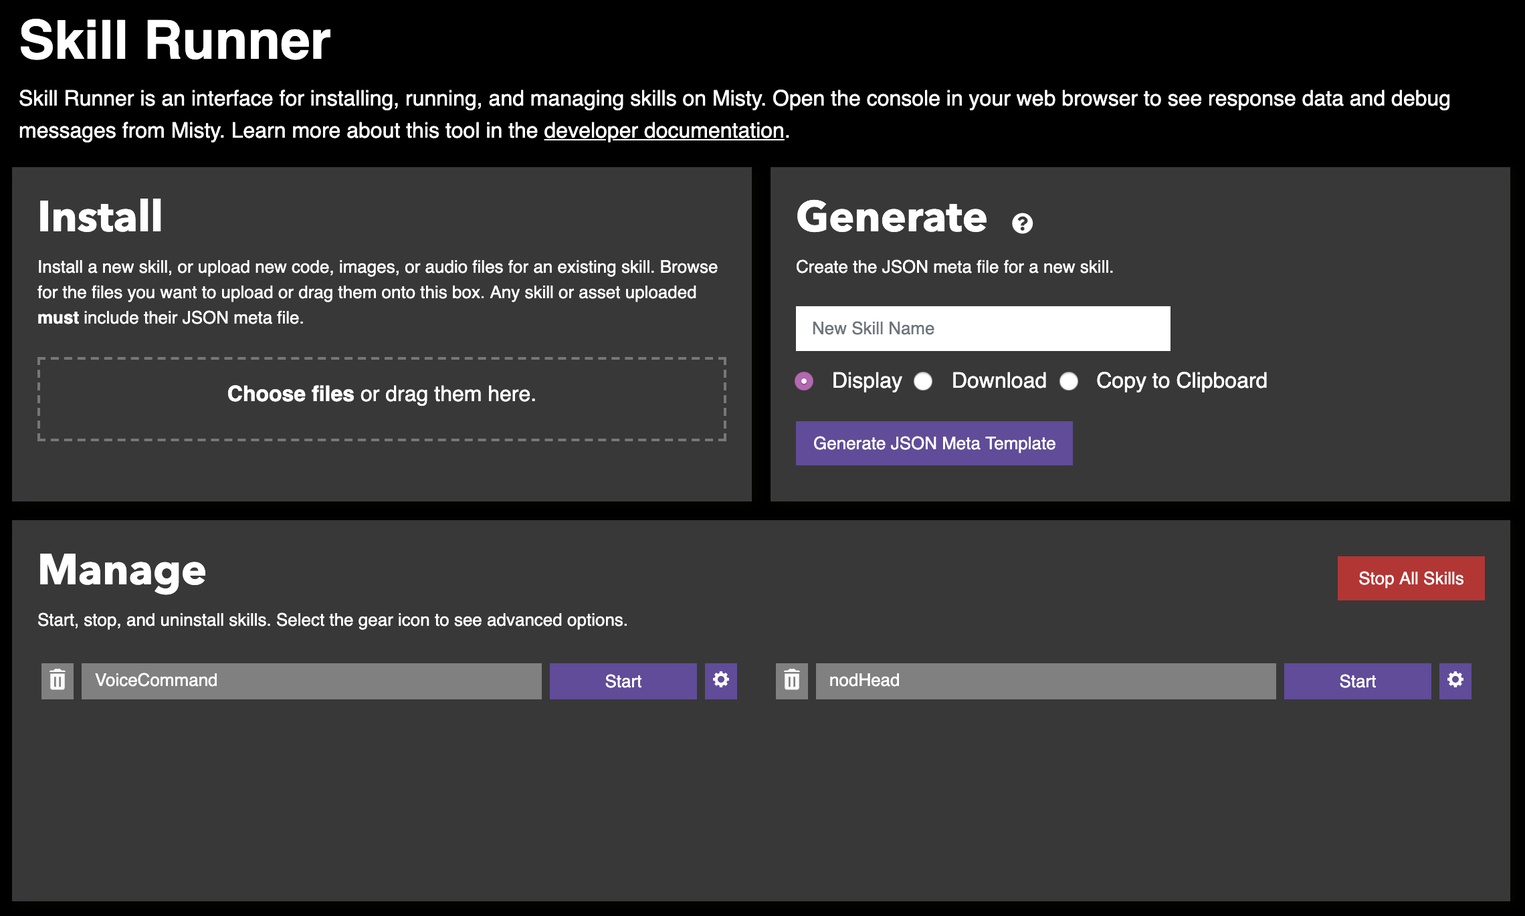
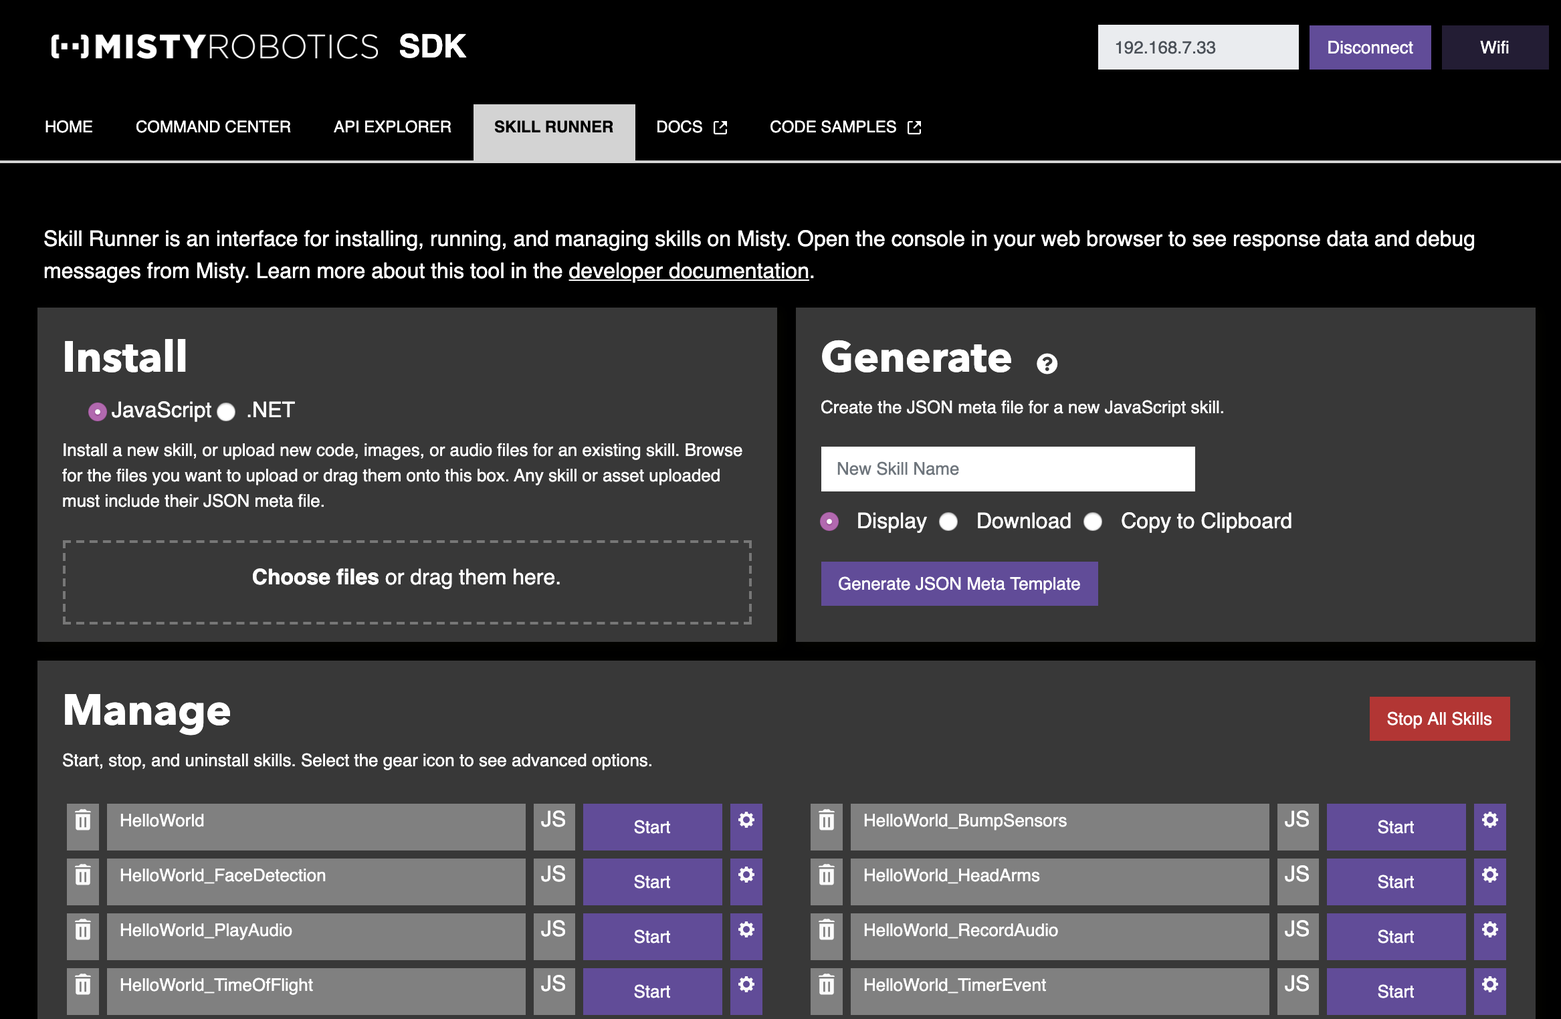
Various updates for compatibility with .NET SDK

diff --git a/src/content/misty-ii/robot/introduction-to-skills.md b/src/content/misty-ii/robot/introduction-to-skills.md
@@ -13,29 +13,32 @@ This article provides an overview of developing skills for Misty. It describes h
 
 ## What is a Skill?
 
-A skill is an application you develop for the Misty platform. While you can build many different types of skills, most involve some combination of the following:
+At a high level, there are two ways to code your Misty II:
+
+* You can build a **skill** using Misty's [JavaScript](../../../misty-ii/javascript-sdk/javascript-skill-architecture) or [.NET](../../../misty-ii/net-sdk/overview) SDK. A skill runs directly on the robot, alongside Misty's own software.
+* You can build a robot **application** using Misty's [REST API](../../rest-api/overview). The distinction between an application and a skill is that the code for an application runs on an external device (like your desktop browser or on a Raspberry Pi) and not onboard the robot.
+
+While you can build many different types of skills and robot applications, most involve some combination of the following:
 
 1. gathering some of Misty's sensory data
 2. processing that data using Misty's API, or sending it off to a cloud service
 3. having Misty do something in response
 
-For example, you might write skills to have Misty do the following:
+For example, you might code Misty to do the following:
 
 * roam an office to greet people she recognizes
 * respond with sound and movement when you touch her on the head or chin
 * patrol an area to capture photos, videos, and audio recordings while reporting changes in the environment
 
-The first step in coding Misty is deciding what you want the robot to do. Then, you can choose to write your code using Misty's JavaScript SDK, her REST API, or both. When you're ready, you can share your code with other developers in the Misty Community.
+The first step in coding Misty is deciding what you want the robot to do. Then, you can choose to whether to use Misty's JavaScript SDK, her .NET SDK (Beta), or her REST API. When you're ready, you can share your code with other developers in the Misty Community.
 
-## Using Misty's APIs
+## SDKs and APIs
 
-At a high level, there are two different ways to write code for Misty. When you write a skill using Misty's [JavaScript SDK](../../../misty-ii/javascript-sdk/javascript-skill-architecture), you upload your code to the robot and it runs internally on Misty. This differs from using Misty's [REST API](../../rest-api/overview), where your code runs on an external device (say, in desktop browser or on a Raspberry Pi) and not onboard the robot.
+Misty's JavaScript, .NET, and REST APIs include many of the same commands, but they differ in architecture and implementation. The following sections provide a high-level overview of Misty's SDKs and APIs.
 
-Misty's JavaScript and REST APIs include many of the same commands, but they differ in architecture and implementation.
+### JavaScript SDK
 
-### Misty's JavaScript SDK
-
-When you use Misty's JavaScript SDK, your code runs locally on your robot. Each skill you write this way runs from a single JavaScript code file. You [upload this code file to Misty](../../../misty-ii/javascript-sdk/javascript-skill-architecture/#loading-amp-running-a-javascript-skill) along with a .json meta file that defines some of the initial settings and parameters that Misty will use when running the skill. If the skill uses image or audio assets that don't yet exist on the robot, you can upload these assets at the same time you upload your skill code. Learn more about this process in the [File Structure & Code Architecture](../../../misty-ii/javascript-sdk/javascript-skill-architecture/#file-structure-amp-code-architecture) section.
+When you use Misty's JavaScript SDK, your code runs locally on your robot. Each JavaScript skill runs from a single JavaScript code file. You [upload this code file to Misty](../../../misty-ii/javascript-sdk/javascript-skill-architecture/#loading-amp-running-a-javascript-skill) along with a .json meta file that defines some of the initial settings and parameters that Misty will use when running the skill. If the skill uses image or audio assets that don't yet exist on the robot, you can upload these assets at the same time you upload your skill code. Learn more about this process in the [File Structure & Code Architecture](../../../misty-ii/javascript-sdk/javascript-skill-architecture/#file-structure-amp-code-architecture) section.
 
 {{box op="start" cssClass="boxed noteBox"}}
 **Note:** If you're used to writing JavaScript for the web, you may be familiar with  manipulating the [DOM](https://developer.mozilla.org/en-US/docs/web/API/Document_Object_Model) in your code. With Misty, there is no DOM for your code to manipulate. Skills you write with Misty's JavaScript SDK cannot use the various [objects and data types](https://developer.mozilla.org/en-US/docs/web/API/Document_Object_Model/Introduction#Important_Data_Types) present in the DOM.
@@ -69,8 +72,6 @@ Follow these links to learn more about coding with Misty's JavaScript SDK:
 * [Tutorials](../../../misty-ii/javascript-sdk/tutorials)
 * [Reference Documentation](../../../misty-ii/javascript-sdk/api-reference)
 
-#### When Should I Use Misty's JavaScript SDK?
-
 Code you write with Misty's JavaScript SDK executes locally on the robot. This means you can expect Misty to respond to commands immediately after they execute in your code. This differs from using Misty's REST API, where you can expect some latency between the execution of a command and Misty's response. 
 
 {{box op="start" cssClass="boxed tipBox"}}
@@ -84,11 +85,53 @@ Consider using Misty's JavaScript SDK when:
 * you need Misty to respond to commands immediately after they execute in your code
 * your skill does not require input from another interface (like text from a computer)
 
-#### Uploading Skill Files to Misty
+### .NET SDK
 
-After you write the JavaScript code for a skill, you must upload your files onto the robot before you can run it. To learn how to load a skill onto Misty, see [Loading & Running On-Robot Skills](../../../misty-ii/javascript-sdk/javascript-skill-architecture/#loading-amp-running-a-javascript-skill).
+Misty II's .NET SDK provides tools for building, debugging, and deploying skills with Microsoft Visual Studio and the .NET framework. Skills you build with the .NET SDK assemble into background applications that run alongside Misty's software on Windows IoT Core. With Misty's .NET SDK, you can:
 
-### Misty's REST API
+* Write skills in C#
+* Leverage features of Visual Studio and the .NET framework such as autocomplete, IntelliSense, and live remote debugging
+* Use external libraries in your skill code
+* Test code before deployment by simulating input from sensors and other robot data
+
+You build a .NET skill for Misty by wrapping your skill code in a background application and deploying the application to your robot. Your skill code implements the interface and methods for issuing commands and getting data from the. You can read more about the architecture of a .NET skill in the [.NET Skill Architecture documentation](../../../misty-ii/net-sdk/net-skill-architecture/).
+
+Currently, Misty's .NET SDK includes the following libraries and templates:
+
+* [Misty Skill Extension](https://marketplace.visualstudio.com/items?itemName=MistyRobotics.MistySkillExtension) (Beta) - A Visual Studio extension that contains project templates for C# skills. When you create a new project with this template, Visual Studio automatically installs the Misty Robotics SDK libraries for use in your skill.
+* [MistyRobotics.SDK](https://www.nuget.org/packages/MistyRobotics.SDK) (Beta) - Library used to build .NET skills for Misty
+* [MistyRobotics.Common](https://www.nuget.org/packages/MistyRobotics.Common) (Beta) - Library with types and data objects commonly used across Misty's .NET skill projects
+* [MistyRobotics.Tools](https://www.nuget.org/packages/MistyRobotics.Tools) (Beta) - Library with optional tools for programming Misty
+
+{{box op="start" cssClass="boxed noteBox"}}
+**Note:** Comprehensive reference documentation for the public members of Misty's .NET SDK libraries is still under development. For now, we recommend using IntelliSense to browse the contents of the SDK libraries and access summaries of library classes and their members.
+{{box op="end"}}
+
+In addition to methods for using Misty's robot capabilities, Misty's .NET SDK libraries provide methods for:
+
+* sending debug messages
+* saving data to Misty
+* handling data from sensor and skill events
+* controlling the flow of your code's execution
+* starting and stopping the execution of other skills on Misty
+* simulating event data and command responses 
+
+Follow these links to learn more about coding with Misty's .NET SDK:
+
+* [Overview](../../../misty-ii/net-sdk/overview)
+* [Getting Started](../../../misty-ii/net-sdk/getting-started)
+* [Architecture](../../../misty-ii/net-sdk/net-skill-architecture)
+
+Like JavaScript skills, .NET skills run locally on Misty II. Consider using the .NET SDK when:
+
+* you want to leverage the features of Visual Studio and the .NET framework
+* you want to use external libraries for advanced local processing of input from Misty's sensors and other event data
+* you want your skill to be portable, so that Misty can run it without depending on or requiring an external device
+* you want to be able to package and share your functionality with other developers or Misty owners
+* you need Misty to respond to commands immediately after they execute in your code
+* your skill does not require input from another interface (like text from a computer)
+
+### REST API
 
 With Misty's REST API, your code runs on an external device and makes HTTP requests to Misty over your local Wi-Fi connection. You send requests to Misty's REST API the same way you interact with other RESTful web APIs. The code you write to send these requests can execute from a web page, a microcontroller (like an Arduino), or any other device that can send web requests.
 
@@ -99,15 +142,13 @@ Writing a robot application with Misty's REST API typically involves two things:
 
 The structure and syntax for sending requests to Misty's REST API endpoints depends on the programming language and libraries you use to write your skill. For an example of sending requests with JavaScript from your web browser, see [Sending Commands to Misty](https://docs.mistyrobotics.com/misty-ii/rest-api/overview/#sending-commands-to-misty).
 
-#### When Should I Use Misty's REST API?
-
 Code you write for Misty's REST API runs on a device outside Misty to send requests over your local Wi-Fi network. This can introduce some latency between the moment your skill sends a request and Misty's execution of the associated command.
 
 It also means you can integrate the capabilities of the device from which the code executes into your skill. For example, if you use Misty's REST API to write skill for Misty to learn someone's face, you can design a web interface with a form where this person can type their name and send it to Misty.
 
 Consider using Misty's REST API when:
 
-* you want to write a skill for Misty using a language other than JavaScript
+* you want to write a skill for Misty using a language other than JavaScript or C#
 * your skill depends on the integration of a graphic interface, like a web page
 * your skill uses the capabilities of an external device that cannot communicate with Misty directly through her built-in UART serial port
 * you want to use JavaScript features that are not supported by Misty's JavaScript engine
@@ -119,30 +160,24 @@ Follow these links to learn more about Misty's REST API:
 * [Tutorials](../../../misty-ii/rest-api/tutorials)
 * [Reference Documentation](../../../misty-ii/rest-api/api-reference)
 
-### Integrating Misty's APIs
-
-When you start building skills for Misty, you will likely discover how useful it can be to combine functionality from her JavaScript SDK with her REST API. 
-
-The REST API includes endpoints for starting and stopping the skills that are already installed on the robot. Additionally, you can use the REST API to trigger events within skills that are already running, and to pass external data into the event callback functions to be processed in the on-robot skill. The inverse is also true; with the `misty.SendExternalRequest()` method, your on-robot skills can send web requests to other devices or third-party cloud services. Misty's ability to interact with other devices and applications makes it possible to invoke skills programmatically and coordinate new interactions between Misty, the cloud, and other computing devices.
-
-### Community Resources
+## Community Resources
 
 You can find helper libraries, code samples, wrappers, and other useful tools for skill development in the [Misty Robotics Community](https://github.com/MistyCommunity) on GitHub.
 
 For examples of working skills that use a variety of Misty's capabilities, see [Misty Skill Samples](https://github.com/MistySampleSkills/) on GitHub.
 
-## Sharing Skills
+## Sharing Skills & Applications
 
-When you have a skill you want to share, we encourage you to post the skill to the [Misty Community Forums](https://community.mistyrobotics.com/). Our recommendation for sharing skills is as follows:
+When you are ready to share a skill or application with other developers, you can post your code in the [Misty Community Forums](https://community.mistyrobotics.com/). Our recommendation for sharing skills and applications is as follows:
 
 * Remove any passwords, credentials, API keys, or tokens your skill uses from your code.
-    1. If your skill uses 3rd party services, we recommend you create a `credentials.json` file where you can store the relevant details.
-    2. To help your fellow developers, annotate your code in the places where the skill uses these accounts and credentials. You can list the details and instructions about how to acquire and use credentials in the skill in a `README` file in the same repository as the skill.
+    1. If your code uses 3rd party services, we recommend you create a `credentials.json` file where you can store the relevant details.
+    2. To help your fellow developers, annotate your code in the places where the skill or application uses these accounts and credentials. You can list the details and instructions about how to acquire and use credentials in the skill in a `README` file in the same repository as the skill.
 * Create a repository that you maintain on GitHub or somewhere else where other developers can download your code.
 * License your repository. You can use whichever license you'd like. For more information about choosing a license, see GitHub's article on [Licensing a Repository](https://help.github.com/en/articles/licensing-a-repository).
-* Create a new topic for your skill in the [Misty Skills category of the Misty Community forums](https://community.mistyrobotics.com/c/misty-skills).
+* Create a new topic in the [Misty Skills category of the Misty Community forums](https://community.mistyrobotics.com/c/misty-skills).
 * Set the first post in your topic to be a wiki. This will allow you and other contributors to suggest changes to the original post as development on your skill continues.
    1. To set your post to be a wiki, select the three-dots icon from the menu below the post. ![Discourse Wik Step 1](../../../assets/images/discourse-wiki-step-1.png)
    2. Select the wrench icon. ![Discourse Wik Step 2](../../../assets/images/discourse-wiki-step-2.png)
    3. Select the **Make Wiki** option from the menu.![Discourse Wik Step 3](../../../assets/images/discourse-wiki-step-3.png)
-* Update the original post when you make changes to your skill.
+* Update the original post when you make changes to your code.

diff --git a/src/content/tools-&-apps/web-based-tools/skill-runner.md b/src/content/tools-&-apps/web-based-tools/skill-runner.md
@@ -32,13 +32,19 @@ We recommend using Skill Runner in Chrome browsers for best results. To open the
 
 ## Installing Skills with Skill Runner
 
-Use the **Install** interface to install and modify Misty's on-robot skills.
+Use the **Install** interface to install and update JavaScript or .NET skills.
 
 ![Skill Runner Install Interface](../../../assets/images/skill-runner-install.png)
 
-### Uploading a New Skill
+### Uploading a JavaScript Skill
 
-To upload a new skill, drag-and-drop your skill files onto the box, or click the box to find the files in your computer's file system.
+To upload a JavaScript skill:
+
+1. Make sure your robot is powered on, fully-booted, and connected to the same Wi-Fi network as your computer.
+2. Open the Skill Runner web page and connect to your robot using the IP address provided by the Misty App.
+3. Select **JavaScript** from the **Install** section. 
+4. Drag-and-drop your skill files onto the **Install** box, or click the box to find the files in your computer's file system.
+5. The Skill Runner web page displays a message when the upload is complete. You can then start, stop, or delete your skill from the **Manage** section.
 
 ![Skill Runner install animation](../../../assets/images/skill-runner-upload-skill-animation.gif)
 
@@ -46,11 +52,24 @@ To upload a new skill, drag-and-drop your skill files onto the box, or click the
 **Important!** When you install a new skill on Misty, you must upload the JavaScript `code` file and the JSON `meta` file at the same time. You can upload image and audio assets associated with a skill by including these asset files when you upload the skill.
 {{box op="end"}}
 
-### Updating an Existing Skill
+To update the code for an existing skill, or to associate new image and audio assets with that skill, upload the new or changed files to Misty along with the JSON `meta` file for the skill. Misty uses the `meta` file to identify which existing skill the new files belong to.
 
-To update the code for an existing skill, or to associate new image and audio assets with that skill, upload these files alongside the JSON `meta` file for that skill. Misty uses the `meta` file to identify which existing skill the new files belong to.
-
+{{box op="start" cssClass="boxed noteBox"}}
 **Note:** When updating an existing skill, make sure the JavaScript `code` file and the JSON `meta` file you upload use the same name as the original skill files.
+{{box op="end"}}
+
+### Uploading a .NET Skill
+
+To install a .NET skill using the Skill Runner web page, you must have access to the skill's app package. [Follow these steps to create the app package](../../../misty-ii/net-sdk/getting-started/#creating-a-net-skill-app-package). Then, use the instructions below to upload the app package to your robot. 
+
+1. If you haven't done so already, compress the entire app package directory into a .zip file.
+2. Make sure your robot is powered on, fully-booted, and connected to the same Wi-Fi network as your computer.
+3. Open the Skill Runner web page and connect to your robot using the IP address provided by the Misty App.
+4. Select **.NET** from the **Install** section. 
+5. Drag-and-drop the .zip file with the app package onto the **Install** box, or click the box to find the file in your computer's file system.
+6. When prompted, enter the credentials for accessing Misty's Windows Device Portal. These credentials are printed on the bottom of your robot, and are the same as the credentials used when [connecting to Misty's file system](../../../misty-ii/robot-misty-ii/#connecting-to-misty-39-s-file-system).
+7. Wait for the skill to upload. For .NET skills, this can take several seconds.
+8. The Skill Runner web page displays a message when the upload is complete. You can then start, stop, or delete your skill from the **Manage** section.
 
 ## Generating a JSON Meta File
 
@@ -70,6 +89,10 @@ Use the **Manage** interface to start, stop, and uninstall Misty's skills. The *
 
 ![Skill Runner manage interface](../../../assets/images/skill-runner-manage.png)
 
+{{box op="start" cssClass="boxed tipBox"}}
+**Tip:** In the **Manage** section, each skill installed on the connected robot is labeled with either **JS** or **C#**. This label indicates whether the skill was built with Misty's JavaScript SDK or her .NET SDK.  
+{{box op="end"}}
+
 ### Starting a Skill
 
 To start a skill, select the **Start** button next to the skill's name.
@@ -87,6 +110,11 @@ When a skill is running, the **Start** button turns red and displays **Stop**. C
 To uninstall a skill, select the **Delete** button next to the skill's name.
 
 ![Uninstall a skill](../../../assets/images/skill-runner-delete.png)
+
+{{box op="start" cssClass="boxed noteBox"}}
+**Note:** When you delete a .NET skill, the Skill Runner asks you for the credentials used to access Misty's Windows Device Portal. These credentials are printed on the bottom of your robot, and are the same as the credentials used when [connecting to Misty's file system](../../../misty-ii/robot-misty-ii/#connecting-to-misty-39-s-file-system).
+{{box op="end"}}
+
 
 ### Advanced Options
 

diff --git a/src/content/misty-ii/net-sdk/getting-started.md b/src/content/misty-ii/net-sdk/getting-started.md
@@ -59,13 +59,13 @@ With the template installed, you can follow these steps to create a new project 
 Visual Studio uses the template to create a solution and project for your C# skill. The project is structured as follows:
 
 ```
-|-- <MySkillName>
+|-- <YourSkillName>
 |	|-- Properties
 |	|	|-- AssemblyInfo.cs
 |	|	|-- Default.rd.xml
 |	|-- References  // MistyRobotics SDK & other libraries
-|	|-- MistyNativeSkill.cs // Your skill code
-|	|-- <MySkillName>_TemporaryKey.pfx
+|	|-- MistySkill.cs // Your skill code
+|	|-- <YourSkillName>_TemporaryKey.pfx
 |	|-- Package.appxmanifest
 |	|-- StartupTask.cs // Background task wrapper for your skill
 ```
@@ -88,6 +88,20 @@ Once you've [customized the project with your own skill code](../net-skill-archi
 4. Make sure your robot is powered on and connected to the same network as your computer. Then, click **Run/Deploy** in Visual Studio. (Deployment can take a few minutes. Check the Visual Studio console to know when deployment is done.)
 5. After deployment, you may need to reload Misty's skills before you can access your .NET skill from the Skill Runner web page. To reload skills, issue a POST request to the API Endpoint for the [`ReloadSkills`](../../../misty-ii/rest-api/api-reference/#reloadskills) operation: `POST <robot-ip>/api/skills/reload`.
 6. Open up the [Skill Runner](https://sdk.mistyrobotics.com/skill-runner) web page in your browser and connect to your robot. Your .NET skill should appear in the **Manage** section of the page. Click **Start** to start run the skill.
+
+## Creating a .NET Skill App Package
+
+In addition to deploying skills directly to Misty, you can use Visual Studio to create app packages for your .NET skills. This makes it possible to share runnable .NET skills without publishing the code for your skill project. You can install app packages for .NET skills using the Skill Runner web page.
+
+Follow these steps to create an app package for your .NET skill:
+
+1. Open your skill project in Visual Studio.
+2. In the Solution Explorer, right-click your project and select **Store &rarr; Create App Packages**.
+3. Select **I want to create packages for sideloading**, and deselect the option to **Enable automatic updates.** Then click **Next.** ![App Package Options](../../../assets/images/app-package-1.png)
+4. On the next screen, use the **Output location** field to select a local directory for your app package. Check the box next to **ARM**, and choose a solution configuration (Debug or Release). Then click **Create.** ![App Package Configuration Settings](../../../assets/images/app-package-2.png)
+5. Visual Studio notifies you when your app package is ready. The folder with your app package is stored at the location you choose in **step 4**. The name of the directory should resemble `<YourSkillName>_1.0.0.0_Debug_Test`.
+
+Once you've created an app package for your .NET skill, you can compress the entire directory into a single .zip file and [install the skill on Misty II using the Skill Runner web page](../../../tools-&-apps/web-based-tools/skill-runner/#uploading-a-net-skill).
 
 ## Important Notes & Workarounds
 

diff --git a/src/content/misty-ii/net-sdk/overview.md b/src/content/misty-ii/net-sdk/overview.md
@@ -9,7 +9,7 @@ order: 1
 
 Misty II's .NET SDK provides tools for building, debugging, and deploying skills with Microsoft Visual Studio and the .NET framework. Skills you build with the .NET SDK assemble into background applications that run alongside Misty's software on Windows IoT Core. With Misty's .NET SDK, you can:
 
-* Write skills in C# (support for other .NET-aware languages is coming soon)
+* Write skills in C#
 * Leverage features of Visual Studio and the .NET framework such as autocomplete, IntelliSense, and live remote debugging
 * Use external libraries in your skill code
 * Test code before deployment by simulating input from sensors and other robot data
